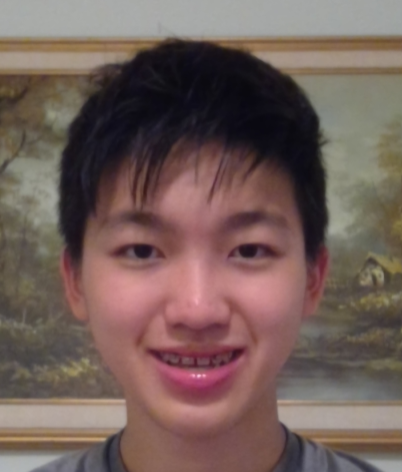
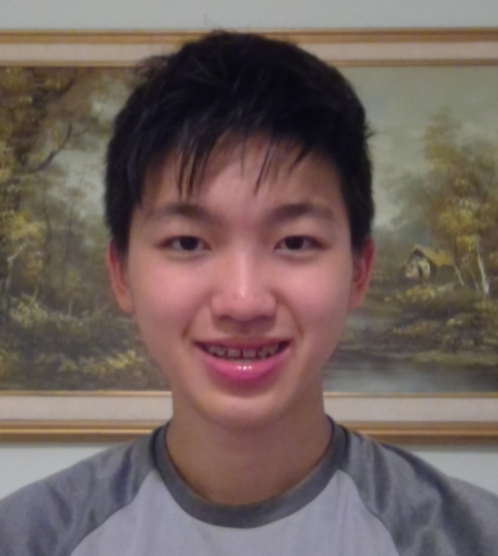
pic change

diff --git a/index.html b/index.html
@@ -147,10 +147,12 @@
                 <div class="text-center">
                     <h2 class="section-heading text-uppercase">Our Amazing Team</h2>
                 </div>
-                <div class="row">
-                    <div class="col-lg-4">
+                <div class="team-box">
+                    <div class="m-4">
                         <div class="team-member">
-                            <img class="mx-auto rounded-circle" src="assets/img/team/1.png" alt="..." />
+                            <div>
+                              <img class="mx-auto" src="assets/img/team/1.png" alt="..." />
+                            </div>
                             <h4>Harvey Zhu</h4>
                             <p class="text-muted">Co-founder</p>
                             <a class="btn btn-dark btn-social mx-2" href="#!"><i class="fab fa-instagram"></i></a>
@@ -158,9 +160,11 @@
                             <a class="btn btn-dark btn-social mx-2" href="#!"><i class="fab fa-linkedin-in"></i></a>
                         </div>
                     </div>
-                    <div class="col-lg-4">
+                    <div class="m-4">
                         <div class="team-member">
-                            <img class="mx-auto rounded-circle" src="assets/img/team/2.png" alt="..." />
+                            <div>
+                              <img class="mx-auto" src="assets/img/team/2.png" alt="..." />
+                            </div>
                             <h4>Jackey Lai</h4>
                             <p class="text-muted">Co-founder</p>
                             <a class="btn btn-dark btn-social mx-2" href="#!"><i class="fab fa-instagram"></i></a>
@@ -168,9 +172,11 @@
                             <a class="btn btn-dark btn-social mx-2" href="#!"><i class="fab fa-linkedin-in"></i></a>
                         </div>
                     </div>
-                    <div class="col-lg-4">
+                    <div class="m-4">
                         <div class="team-member">
-                            <img class="mx-auto rounded-circle" src="assets/img/team/3.png" alt="..." />
+                            <div>
+                              <img class="mx-auto" src="assets/img/team/3.png" alt="..." />
+                            </div>
                             <h4>Gregory Chai</h4>
                             <p class="text-muted">Co-founder</p>
                             <a class="btn btn-dark btn-social mx-2" href="#!"><i class="fab fa-instagram"></i></a>
@@ -178,9 +184,11 @@
                             <a class="btn btn-dark btn-social mx-2" href="#!"><i class="fab fa-linkedin-in"></i></a>
                         </div>
                     </div>
-                    <div class="col-lg-4">
+                    <div class="m-4">
                         <div class="team-member">
-                            <img class="mx-auto rounded-circle" src="assets/img/team/4.png" alt="..." />
+                            <div>
+                              <img class="mx-auto" src="assets/img/team/4.png" alt="..." />
+                            </div>
                             <h4>Nathan Chu</h4>
                             <p class="text-muted">Co-founder</p>
                             <a class="btn btn-dark btn-social mx-2" href="#!"><i class="fab fa-instagram"></i></a>

diff --git a/css/styles.css b/css/styles.css
@@ -11691,14 +11691,27 @@ header.masthead .masthead-heading {
     padding: 0 100px 20px 20px;
   }
 }
+.team-box {
+  display: flex;
+  flex-wrap: wrap;
+  justify-content: center;
+}
 .team-member {
+  display: inline-block;
+  align-content: center;
   margin-bottom: 3rem;
   text-align: center;
 }
-.team-member img {
-  width: 14rem;
-  height: 14rem;
+.team-member div {
   border: 0.5rem solid rgba(0, 0, 0, 0.1);
+  border-radius: 50%;
+  overflow: hidden;
+  max-width: 14rem;
+  max-height: 14rem;
+}
+.team-member img {
+  object-fit: cover;
+  width: 101%
 }
 .team-member h4, .team-member .h4 {
   margin-top: 1.5rem;
